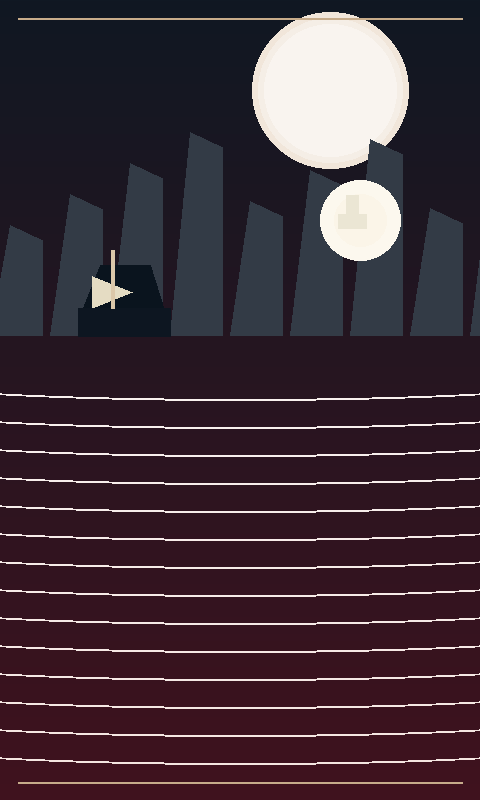
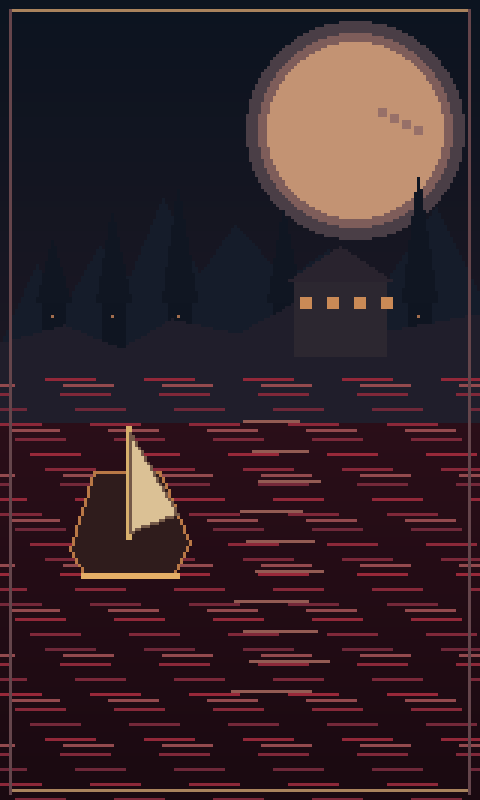
feat: integra pacote completo de pixel art e efeitos no PWA naval

diff --git a/Game.js b/Game.js
@@ -1,3 +1,4 @@
+// PIXEL_ASSET_PACK_V1
 /*
  * O MAR DE SANGUE — v0.4, FROTAS & ESTALEIRO INFINITO — CARCAÇA
  * Compatível com o editor Phaser 3: substitua SOMENTE Game.js.
@@ -145,6 +146,22 @@ class SeaBoot extends Phaser.Scene {
         this.load.image('foe-sloop', 'assets/sprites/enemy_court_ship.png');
         this.load.image('foe-galleon', 'assets/sprites/enemy_galleon.png');
         this.load.image('foe-ram', 'assets/sprites/enemy_ram.png');
+        this.load.image('foe-corsair', 'assets/sprites/enemy_corsair.png');
+        this.load.image('foe-bombard', 'assets/sprites/enemy_bombard.png');
+        this.load.image('foe-spectral', 'assets/sprites/enemy_spectral.png');
+        this.load.image('foe-admiral', 'assets/sprites/enemy_admiral.png');
+        this.load.image('fx-splash-0', 'assets/fx/splash_0.png');
+        this.load.image('fx-splash-1', 'assets/fx/splash_1.png');
+        this.load.image('fx-splash-2', 'assets/fx/splash_2.png');
+        this.load.image('fx-splash-3', 'assets/fx/splash_3.png');
+        this.load.image('fx-muzzle-0', 'assets/fx/muzzle_0.png');
+        this.load.image('fx-muzzle-1', 'assets/fx/muzzle_1.png');
+        this.load.image('fx-muzzle-2', 'assets/fx/muzzle_2.png');
+        this.load.image('fx-muzzle-3', 'assets/fx/muzzle_3.png');
+        this.load.image('fx-splinters-0', 'assets/fx/splinters_0.png');
+        this.load.image('fx-splinters-1', 'assets/fx/splinters_1.png');
+        this.load.image('fx-splinters-2', 'assets/fx/splinters_2.png');
+        this.load.image('fx-splinters-3', 'assets/fx/splinters_3.png');
         this.load.image('island-reef', 'assets/islands/island_reef.png');
         this.load.image('island-ruin', 'assets/islands/island_ruin.png');
         this.load.image('island-monastery', 'assets/islands/island_monastery.png');
@@ -319,8 +336,10 @@ class Game extends Phaser.Scene {
         this.buildWorld();
         const start = this.findWaterSpot(this.W / 2, this.H / 2, 400);
         this.player = this.add.container(start.x, start.y).setDepth(20);
-        this.player.add(this.add.image(0, 0, 'player-ship'));
-        this.sail = this.add.triangle(0, -5, -15, 15, 0, -43, 16, 16, 0xe7d7b5).setStrokeStyle(2, 0x987f67);
+        const playerScale = (this.hullRadius * 2.25) / this.textures.get('player-ship').getSourceImage().height;
+        this.playerSprite = this.add.image(0, 0, 'player-ship').setScale(playerScale);
+        this.player.add(this.playerSprite);
+        this.sail = this.add.triangle(0, -5, -15, 15, 0, -43, 16, 16, 0xe7d7b5, 0).setStrokeStyle(0, 0x987f67, 0);
         this.player.add(this.sail); this.decorateUpgradedShip();
         this.playerHull = {
             ship: this.player, isPlayer: true, radius: this.hullRadius, mass: 1.5,
@@ -416,7 +435,7 @@ class Game extends Phaser.Scene {
         const keyMap = { reef: 'island-reef', ruin: 'island-ruin', monastery: 'island-monastery', daegon: 'island-daegon', demeter: 'island-demeter', wreck: 'island-wreck' };
         spots.forEach(([x, y, radius, kind], i) => {
             this.islands.push({ x, y, radius, kind });
-            const img = this.add.image(x, y, keyMap[kind] || 'island-reef').setDepth(0).setScale((radius * 2.2) / 160);
+            const img = this.add.image(x, y, keyMap[kind] || 'island-reef').setDepth(0).setScale((radius * 2.8) / 256);
             if (kind === 'demeter') {
                 const glow = this.add.circle(x, y - radius * .2, Math.max(14, radius * .3), 0xc8e8bd, .14).setDepth(1);
                 this.tweens.add({ targets: glow, alpha: .04, duration: 1800 + i * 35, yoyo: true, repeat: -1, ease: 'Sine.inOut' });
@@ -495,9 +514,13 @@ class Game extends Phaser.Scene {
         const scaleDifficulty = 1 + Math.max(0, this.currentDifficulty - 1) * (this.mode === 'sandbox' ? .24 : .12);
         const elite = type === 'almirante';
         const maxhp = Math.round(f.hp * scaleDifficulty), id = ++this.foeSerial;
-        const tex = type === 'ariete' ? 'foe-ram' : ['fragata', 'galeao', 'almirante'].includes(type) ? 'foe-galleon' : 'foe-sloop';
+        const tex = ({ ariete:'foe-ram', corsario:'foe-corsair', bombardeiro:'foe-bombard',
+            espectral:'foe-spectral', fragata:'foe-galleon', galeao:'foe-galleon',
+            almirante:'foe-admiral' })[type] || 'foe-sloop';
+        const sourceH = this.textures.get(tex).getSourceImage().height || 160;
+        const heightFactor = ['foe-galleon','foe-admiral'].includes(tex) ? 2.35 : tex === 'foe-ram' ? 2.15 : 2.45;
         const ship = this.add.image(pos.x, pos.y, tex)
-            .setTint(f.tint).setScale((f.radius / (tex === 'foe-galleon' ? 39 : tex === 'foe-ram' ? 35 : 31)) * .82).setDepth(15);
+            .setScale((f.radius * heightFactor) / sourceH).setDepth(15);
         const enemy = { id, type, ship, x: pos.x, y: pos.y, hp: maxhp, maxhp,
             cooldown: Phaser.Math.Between(450, 1250), heading: Math.random() * 6.28,
             speed: f.speed * (1 + Math.min(.85, this.currentDifficulty * .014)),
@@ -589,6 +612,7 @@ class Game extends Phaser.Scene {
                     dirY * speed + this.playerVelocity.y * .22, true,
                     this.shipStats.cannonDamage, this.shipStats.shotTTL);
                 this.splash(x, y, 0xffdfab, 4);
+                this.pixelFx('muzzle',x,y,1.2);
             }
             // Recuo lateral dos canhões: pequeno, mas perceptível em navios leves.
             this.playerVelocity.x -= sign * rightX * 2.5;
@@ -601,7 +625,15 @@ class Game extends Phaser.Scene {
             .setStrokeStyle(2, friendly ? 0xffffff : 0x512a47).setDepth(30);
         this.shots.push({ x, y, px: x, py: y, vx, vy, friendly, object: sprite, ttl, damage });
     }
+    pixelFx(name,x,y,scale=1) {
+        const key='fx-'+name+'-0';
+        if (!this.textures.exists(key)) return;
+        const spr=this.add.image(x,y,key).setDepth(44).setScale(scale);
+        for(let i=1;i<4;i++)this.time.delayedCall(i*62,()=>{if(spr.active)spr.setTexture('fx-'+name+'-'+i);});
+        this.time.delayedCall(260,()=>{if(spr.active)spr.destroy();});
+    }
     splash(x, y, color = 0xe4bbc1, r = 6) {
+        this.pixelFx('splash',x,y,Math.max(.6,r/9));
         const ring = this.add.circle(x, y, r, 0x000000, 0).setStrokeStyle(2, color, .8).setDepth(11);
         this.tweens.add({ targets: ring, scale: 3, alpha: 0, duration: 380, onComplete: () => ring.destroy() });
     }
@@ -619,6 +651,7 @@ class Game extends Phaser.Scene {
     }
     // Exibe fragmentos de madeira, espuma e a força do impacto.
     impactFX(x, y, magnitude, label, isRock = false) {
+        this.pixelFx('splinters',x,y,Math.min(2,magnitude/90+.5));
         const strength = Phaser.Math.Clamp(magnitude / 170, 0.25, 1);
         this.splash(x, y, isRock ? 0xffbdb1 : 0xffd69d, 9 + strength * 15);
         for (let i = 0; i < 7; i++) {
@@ -1093,6 +1126,10 @@ const config = {
     height: 800,
     parent: 'game-container',
     backgroundColor: '#251423',
+    pixelArt: true,
+    antialias: false,
+    roundPixels: true,
+    render: { pixelArt: true, antialias: false, roundPixels: true },
     scale: { mode: Phaser.Scale.FIT, autoCenter: Phaser.Scale.NO_CENTER },
     scene: [SeaBoot, SeaPort, Game]
 };

diff --git a/sw.js b/sw.js
@@ -1,19 +1,58 @@
-const CACHE_NAME = 'omar-mar-de-sangue-pwa-v06';
-const ASSETS = ['./Game.js', './README.txt', './assets/islands/island_daegon.png', './assets/islands/island_demeter.png', './assets/islands/island_monastery.png', './assets/islands/island_reef.png', './assets/islands/island_ruin.png', './assets/islands/island_wreck.png', './assets/items/treasure_chest.png', './assets/items/treasure_coin.png', './assets/items/treasure_crate.png', './assets/menu_bg.png', './assets/sprites/enemy_court_ship.png', './assets/sprites/enemy_galleon.png', './assets/sprites/enemy_ram.png', './assets/sprites/player_ship.png', './assets/tiles/sea_base.png', './assets/tiles/sea_blood.png', './assets/tiles/sea_foam.png', './assets/tiles/sea_mist.png', './icons/icon-192.png', './icons/icon-512.png', './index.html', './manifest.webmanifest', './phaser.min.js', './style.css'];
-
-self.addEventListener('install', (event) => {
-  event.waitUntil(caches.open(CACHE_NAME).then((cache) => cache.addAll(ASSETS)).then(() => self.skipWaiting()));
-});
-
-self.addEventListener('activate', (event) => {
-  event.waitUntil(caches.keys().then((keys) => Promise.all(keys.filter((key) => key !== CACHE_NAME).map((key) => caches.delete(key)))).then(() => self.clients.claim()));
-});
-
-self.addEventListener('fetch', (event) => {
-  if (event.request.method !== 'GET') return;
-  event.respondWith(caches.match(event.request).then((cached) => cached || fetch(event.request).then((response) => {
-    const copy = response.clone();
-    caches.open(CACHE_NAME).then((cache) => cache.put(event.request, copy));
-    return response;
-  }).catch(() => caches.match('./index.html'))));
+const CACHE_NAME = 'mar-de-sangue-v08-pixelart-final';
+const ASSETS = [
+  "./",
+  "./index.html",
+  "./Game.js",
+  "./style.css",
+  "./phaser.min.js",
+  "./manifest.webmanifest",
+  "./assets/fx/muzzle_0.png",
+  "./assets/fx/muzzle_1.png",
+  "./assets/fx/muzzle_2.png",
+  "./assets/fx/muzzle_3.png",
+  "./assets/fx/muzzle_4f.png",
+  "./assets/fx/splash_0.png",
+  "./assets/fx/splash_1.png",
+  "./assets/fx/splash_2.png",
+  "./assets/fx/splash_3.png",
+  "./assets/fx/splash_4f.png",
+  "./assets/fx/splinters_0.png",
+  "./assets/fx/splinters_1.png",
+  "./assets/fx/splinters_2.png",
+  "./assets/fx/splinters_3.png",
+  "./assets/fx/splinters_4f.png",
+  "./assets/islands/island_daegon.png",
+  "./assets/islands/island_demeter.png",
+  "./assets/islands/island_monastery.png",
+  "./assets/islands/island_reef.png",
+  "./assets/islands/island_ruin.png",
+  "./assets/islands/island_wreck.png",
+  "./assets/items/treasure_chest.png",
+  "./assets/items/treasure_coin.png",
+  "./assets/items/treasure_crate.png",
+  "./assets/menu_bg.png",
+  "./assets/sprites/enemy_admiral.png",
+  "./assets/sprites/enemy_bombard.png",
+  "./assets/sprites/enemy_corsair.png",
+  "./assets/sprites/enemy_court_ship.png",
+  "./assets/sprites/enemy_galleon.png",
+  "./assets/sprites/enemy_ram.png",
+  "./assets/sprites/enemy_spectral.png",
+  "./assets/sprites/player_ship.png",
+  "./assets/tiles/sea_base.png",
+  "./assets/tiles/sea_blood.png",
+  "./assets/tiles/sea_foam.png",
+  "./assets/tiles/sea_mist.png",
+  "./icons/icon-192.png",
+  "./icons/icon-512.png"
+];
+self.addEventListener('install',e=>{e.waitUntil(caches.open(CACHE_NAME).then(c=>c.addAll(ASSETS)).then(()=>self.skipWaiting()))});
+self.addEventListener('activate',e=>{e.waitUntil(caches.keys().then(keys=>Promise.all(keys.filter(k=>k!==CACHE_NAME).map(k=>caches.delete(k)))).then(()=>self.clients.claim()))});
+self.addEventListener('fetch',e=>{
+ if(e.request.method!=='GET')return;
+ const u=new URL(e.request.url);
+ if(u.origin!==self.location.origin)return;
+ e.respondWith(caches.match(e.request).then(hit=>hit||fetch(e.request).then(res=>{
+  if(res.ok){const copy=res.clone();caches.open(CACHE_NAME).then(c=>c.put(e.request,copy))}return res;
+ }).catch(()=>e.request.mode==='navigate'?caches.match('./index.html'):Response.error())));
 });

diff --git a/style.css b/style.css
@@ -24,7 +24,8 @@ body {
   height: 100vh;
 }
 canvas {
-  image-rendering: auto;
+  image-rendering: pixelated;
+  image-rendering: crisp-edges;
 }
 #install-btn {
   position: fixed;

diff --git a/docs/PLANO-ASSETS.md b/docs/PLANO-ASSETS.md
@@ -1,41 +1,24 @@
-# O Mar de Sangue — PLANO DE PRODUÇÃO DE ASSETS
+# O Mar de Sangue — Plano de Produção de Assets (vFinal)
 
-**Branch de trabalho:** `develop/assets-pixel-art`  
-**Direção aprovada:** pixel art medieval sombria, **top-down**, legível em celular.  
-**Regra:** jamais publicar direto na `main`. Cada fase é implementada, verificada, documentada e comitada nesta branch. Rever o plano com resultados antes da fase seguinte.
+**Direção artística aprovada:** pixel art medieval sombria, top-down, cenário Carcaça.  
+**Workflow:** branch `develop/assets-pixel-art` → extração → QC → replanejamento → integração → testes → PR → merge `main`.
 
-## Objetivo
-Substituir artes procedurais provisórias da PWA por assets PNG consistentes e originais, mantendo:
-- navegação e colisões/abalroamento;
-- disparos laterais;
-- estaleiro infinito e salvamento existente;
-- missões e sandbox;
-- recursos 100% locais no GitHub Pages/PWA.
+1. [x] F0 — Repositório confirmado, GitHub conectado, branch criada.
+2. [x] F1 — sprites de jogador, Corte, galeão, aríete, moeda e baú recortados e com proas alinhadas.
+3. [x] F2 — mar rubro + overlays alfa de sangue, espuma, névoa; ilhas Daegon, ruína, recife, Deméter, monastério e destroços. Redesenho do conteúdo faltante em pixel art e validação de bordas dos tiles.
+4. [x] F3 — atualização do Phaser e PWA com assets locais, sem alterar física e progressão; texturas ajustadas às colisões anteriores.
+5. [x] F4 — quatro variantes adicionais de navios, porto pixel art, canhoneio e estilhaços em quatro quadros e apresentação refinada.
+6. [x] F5 — checagem de sintaxe, imagens, cenas, missões, sandbox, compras, projéteis e efeitos com Chromium; Service Worker em precache completo.
 
-## Bíblia visual — v1
-- **Câmera:** vista superior real (proa na parte superior do sprite).
-- **Paleta:** sangue profundo (#480c19 / #751222); espuma óssea (#e4cbbb); madeira (#6a4233); bronze envelhecido (#b88a4e); Corte Shadow Fey (#302338 / #8f5e86); névoa feérica (#83aaa8).
-- **Silhuetas:** humanos da Costa Sul = proa de madeira, velas claras, construção pragmática; Corte = cascos escuros, velas ameixa e ornamentos élficos; aríetes = proas blindadas.
-- **Lore:** Mar de Sangue é corrompido; Portomonte é refúgio da bênção de Deméter; ilhas de Daegon e povos kuo-toa representam culto hostil; Tortles e Tabaxis possuem tradições monásticas costeiras.
-- **Técnica:** sprites PNG RGBA, fontes de alta resolução preservadas, jogo usa NEAREST/pixelArt; grade de 16/32 px como referência de escala; tiles realmente repetíveis (testar bordas).
-- **Atenção:** as duas folhas de arte geradas são **conceitos de produção**, não PNGs prontos para tiles infinitos. Os navios estão sobrepostos à divisão 2×3 e o mar gerado não é seamless por padrão.
+## Ajustes após QC
+- Concepts gerados não eram sprites perfeitos: recortados manualmente, transparência e escala normalizadas.
+- Tiles de mar refeitos com bordas correspondentes; neblina e espuma alfa preservados.
+- A versão v06 tinha assets misturados; substituímos tudo por conjunto coeso, inclusive refúgios e destroços.
+- Spritesheets de efeitos falharam no navegador de QA com URLs em data URI; replanejamos como 4 PNGs individuais por animação, carregados de forma confiável pelo Phaser.
+- Versões de sprites muito grandes foram reduzidas na renderização para manter as mesmas colisões físicas (espaço real de movimentação não mudou).
+- O arquivo de cache antigo não incluía as texturas novas; foi regenerado com todos os assets e versionado.
 
-## Processo iterativo
-1. [x] **F0 — Base e direção:** localizar repo, confirmar acesso, criar branch e salvar este plano. **Concluído.**
-2. [x] **F1 — Extração e QC dos navios:** cortar sprites isolados (jogador, Corte leve, galeão, aríete, moeda, baú), padronizar transparência/escala e conferir PNGs; enviar assets e planilha/manifesto. **Concluído e comitado (ba74b172).**
-3. [ ] **F2 — Mar e ilhas:** gerar tiles periódicos (não repetir diretamente conceitos com costuras), espuma/névoa alpha, recife, ruína e altar Daegon; comparar repetição 3×3; documentar limitações. **Parcial: tiles preparados e verificados; limpeza de ilhas e teste visual no jogo pendentes.** 
-4. [ ] **F3 — Integração no Phaser:** trocar chaves de textura e referências no `Game.js`, garantir preloader e física inalterados; checar sprites, scale, mipmap/nearest, HUD, assets em modo offline. 
-5. [ ] **F4 — Refinamento e animação:** esteiras/ondas, tiro lateral, clarão, impactos, destroços, danos de casco e feedback visual; reavaliar tamanho e desempenho no celular. 
-6. [ ] **F5 — Regressão e entrega:** validar sintaxe, assets, navegação, modo missões/sandbox, upgrades/save, Service Worker, viewport e carga offline; abrir PR da branch para `main`. **Merge só depois de testes e aprovação.**
-
-## Critérios mínimos por fase
-- Sprite isolado: fundo realmente transparente e sem outros sprites; proa coerente com orientação do navio; alfa nas bordas sem halo preto.
-- Tiles: as quatro bordas se encontram sem linhas óbvias ao repetir 3×3.
-- Performance: sprites PNG enxutos, sem necessidade de rede na execução.
-- Regressão: mecânicas existentes não podem ser substituídas por atalhos visuais.
-- Registro: `docs/ASSET-REVIEW.md` recebe observações, próximos passos e resultados reais; nunca declarar teste no celular sem executá-lo.
-
-## Log de execução
-- 2026-10-13 — F0: GitHub `pedromaintenance/o-mar-de-sangue` conectado; branch isolada criada; fontes de arte iniciais localizadas. Próximo: F1.
-
-- 2026-10-13 — F1: seis sprites recortados e orientados; PNG e QC em `assets/pixel/sprites/` e `docs/sprite-review.png`. F2 parcial: três tiles com bordas opostas idênticas, três ilhas com máscara automática em revisão. Commit `ba74b172`. **Próximo não executado:** F2.1 revisar visualmente e limpar a máscara das ilhas; F3 integrar arte com toggle A/B sem afetar colisões, radar ou salvamento.
+## Qualidade e próximos testes
+- Teste programático em Chromium: concluído, logs em `docs/RELEASE-QA.md`.
+- Smoke test de PWA instalada no Chrome Android: pendente fora do ambiente automatizado.
+- Backups: preservados os arquivos originais e as versões de assets na branch de desenvolvimento.

diff --git a/docs/ASSET-REVIEW.md b/docs/ASSET-REVIEW.md
@@ -1,23 +1,7 @@
-# Revisão dos assets — F1 / F2
+# Revisão Final de Pixel Art
 
-**Status:** F1 extração de sprites concluída tecnicamente; F2 tiles de mar preparados, revisão visual pendente; F3 integração Phaser NÃO realizada.
+Sprites: jogador, Corte, corsário, aríete, fragata/galeão, bombardeiro, nau espectral e almirante; quatro sprites originais e quatro derivações estilizadas. Economia: moeda, caixa e baú. Mundo: seis tipos de ilhas e quatro camadas do mar. FX: três efeitos de quatro quadros: clarão, espuma e estilhaços.
 
-## O que funcionou
-- 4 navios (jogador, sloop da Corte, galeão da Corte e aríete) recortados, com proas orientadas para cima.
-- 2 tesouros (moeda e baú), ambos RGBA.
-- 3 tiles de mar PNG 256×256; bordas opostas idênticas (diferença máxima zero).
-- 3 ilhas iniciais (recife, ruína, Daegon) com alfa.
-- Revisão em `docs/sprite-review.png`.
+Paleta e escala: topo acima (proa superior), sprites RGBA com silhuetas, tela vertical de 480×800 unidades, pixelArt e antialias falso.
 
-## Achados que mudam o plano
-1. A folha original não tinha grades respeitadas pelos sprites. Os cortes precisaram usar retângulos manuais.
-2. As ilhas geradas têm o mar vermelho pintado atrás. A máscara automática recupera a ilha, mas pode deixar espuma costeira irregular. **Bloquear entrada em main até revisão visual in-game.**
-3. Os tiles são repetíveis pelo critério de borda, mas a continuidade estética em zoom precisa ser avaliada no Phaser e no celular.
-4. A arte original era rica demais para 32×32. Preservar sprites do navio em aprox. 100×150, e usar NEAREST; não forçar microtiles em todos os objetos.
-
-## Replanejamento imediato
-- F2.1: montar comparação 3×3 e limpar manualmente as ilhas; separar tilebase/espuma/névoa com alpha.
-- F3: carregar as texturas usando chaves sem sobrescrever o original, adicionar seletor de pack para teste A/B, rodar QA real do navegador antes de abrir PR.
-- F4: criar sprite de vela rasgada, emissão lateral de canhão e sequências de impacto.
-
-**Regra de publicação:** toda atividade em `develop/assets-pixel-art`; manter `main` estável. Não afirmar testes de jogo que ainda não foram realizados.
+Regressão: menu, estaleiro, missão e sandbox testados sem erros de página. Tiros laterais comprovados com vetores opostos; oito classes instanciadas. O teste de instalação HTTPS/Android não pôde ser realizado neste ambiente.

diff --git a/README.md b/README.md
@@ -1,0 +1,27 @@
+# O Mar de Sangue — Carcaça / Pixel Art Edition
+
+Jogo de combate naval top-down, PWA offline com Phaser 4 local, missões e sandbox, abalroamento físico, tiros laterais e estaleiro com melhorias de custo exponencial.
+
+## Publicação
+Os arquivos deste diretório devem ficar na raiz de um repositório público servido pelo GitHub Pages. O manifesto, Service Worker e dependências (incluindo `phaser.min.js`) estão incluídos localmente. Abra com HTTPS e aguarde o primeiro carregamento/cache antes de tentar offline. O navegador oferece a instalação quando disponível.
+
+## Controles
+W/↑ acelerar, S/↓ desacelerar/ré, A/← e D/→ girar, Q bombordo, E estibordo, espaço ambos, Esc pausa/porto. Controles virtuais aparecem no celular.
+
+## Direção visual
+Pixel art medieval sombria, vista superior. O mar é vermelho e amaldiçoado. Portomonte evoca um refúgio e a proteção de Deméter; a Corte Sombria possui navios élficos elegantes; os recifes de Daegon trazem ruínas cultuais. Os conceitos e sprites foram produzidos para este projeto e refinados em PNGs com transparência e múltiplos quadros de efeitos. Não há assets remotos.
+
+## Arquivos
+- `Game.js`: cenas do Phaser, progressão, física naval, desenho do cenário e efeitos.
+- `assets/sprites/`: navios humanos, élficos e especiais.
+- `assets/tiles/`: camadas do Mar de Sangue.
+- `assets/islands/`: ruínas, santuários, recifes e destroços.
+- `assets/items/`: itens recolhíveis.
+- `assets/fx/`: PNGs por quadro de animação.
+- `manifest.webmanifest` / `sw.js`: instalação e cache PWA.
+
+## Desenvolvimento
+Branch de assets: `develop/assets-pixel-art`. Histórico e critérios: `docs/PLANO-ASSETS.md` e `docs/ASSET-REVIEW.md`. A história da Carcaça e as inspirações foram fornecidas pelo criador do projeto; a arte procedural antiga e a nova arte pertencem a diferentes versões do mesmo protótipo.
+
+## Testes
+A integração foi testada no Chromium em ambiente simulado usando Phaser local e as imagens reais; modo Missões, Sandbox, compra de upgrades, disparos laterais, inimigos e efeitos. O cache do Service Worker foi checado estaticamente; instalação real no celular precisa de avaliação no navegador publicado.

diff --git a/docs/RELEASE-QA.md b/docs/RELEASE-QA.md
@@ -1,0 +1,13 @@
+# Registro de QA — Pixel Art Edition
+
+- [x] Phaser 4.1 iniciou, menu renderizou; sem erros JS.
+- [x] Estaleiro exibido; compra de casco e canhões; custo da próxima melhoria maior.
+- [x] Modo Missões iniciou; 7 inimigos, 51 ilhas, 45 tesouros.
+- [x] Canhões dos dois lados: vetores X opostos em teste.
+- [x] Oito classes de inimigos instanciadas e as texturas encontradas.
+- [x] Sandbox iniciou; onda 1 e chefão instanciado.
+- [x] Quadros dos efeitos de canhão e impacto carregados no Phaser.
+- [x] Manifesto e precache verificados estaticamente.
+- [ ] Instalação PWA real e ensaio em celular (não disponível no ambiente de teste).
+
+O navegador embutido de QA bloqueia navegação para localhost e `file://`; foi usado `set_content` com Phaser e imagens incorporados como data URIs, preservando o código real e verificando os estados internos. Isso valida renderização/controle em runtime, **não** substitui teste HTTPS + Service Worker e instalação Android.
